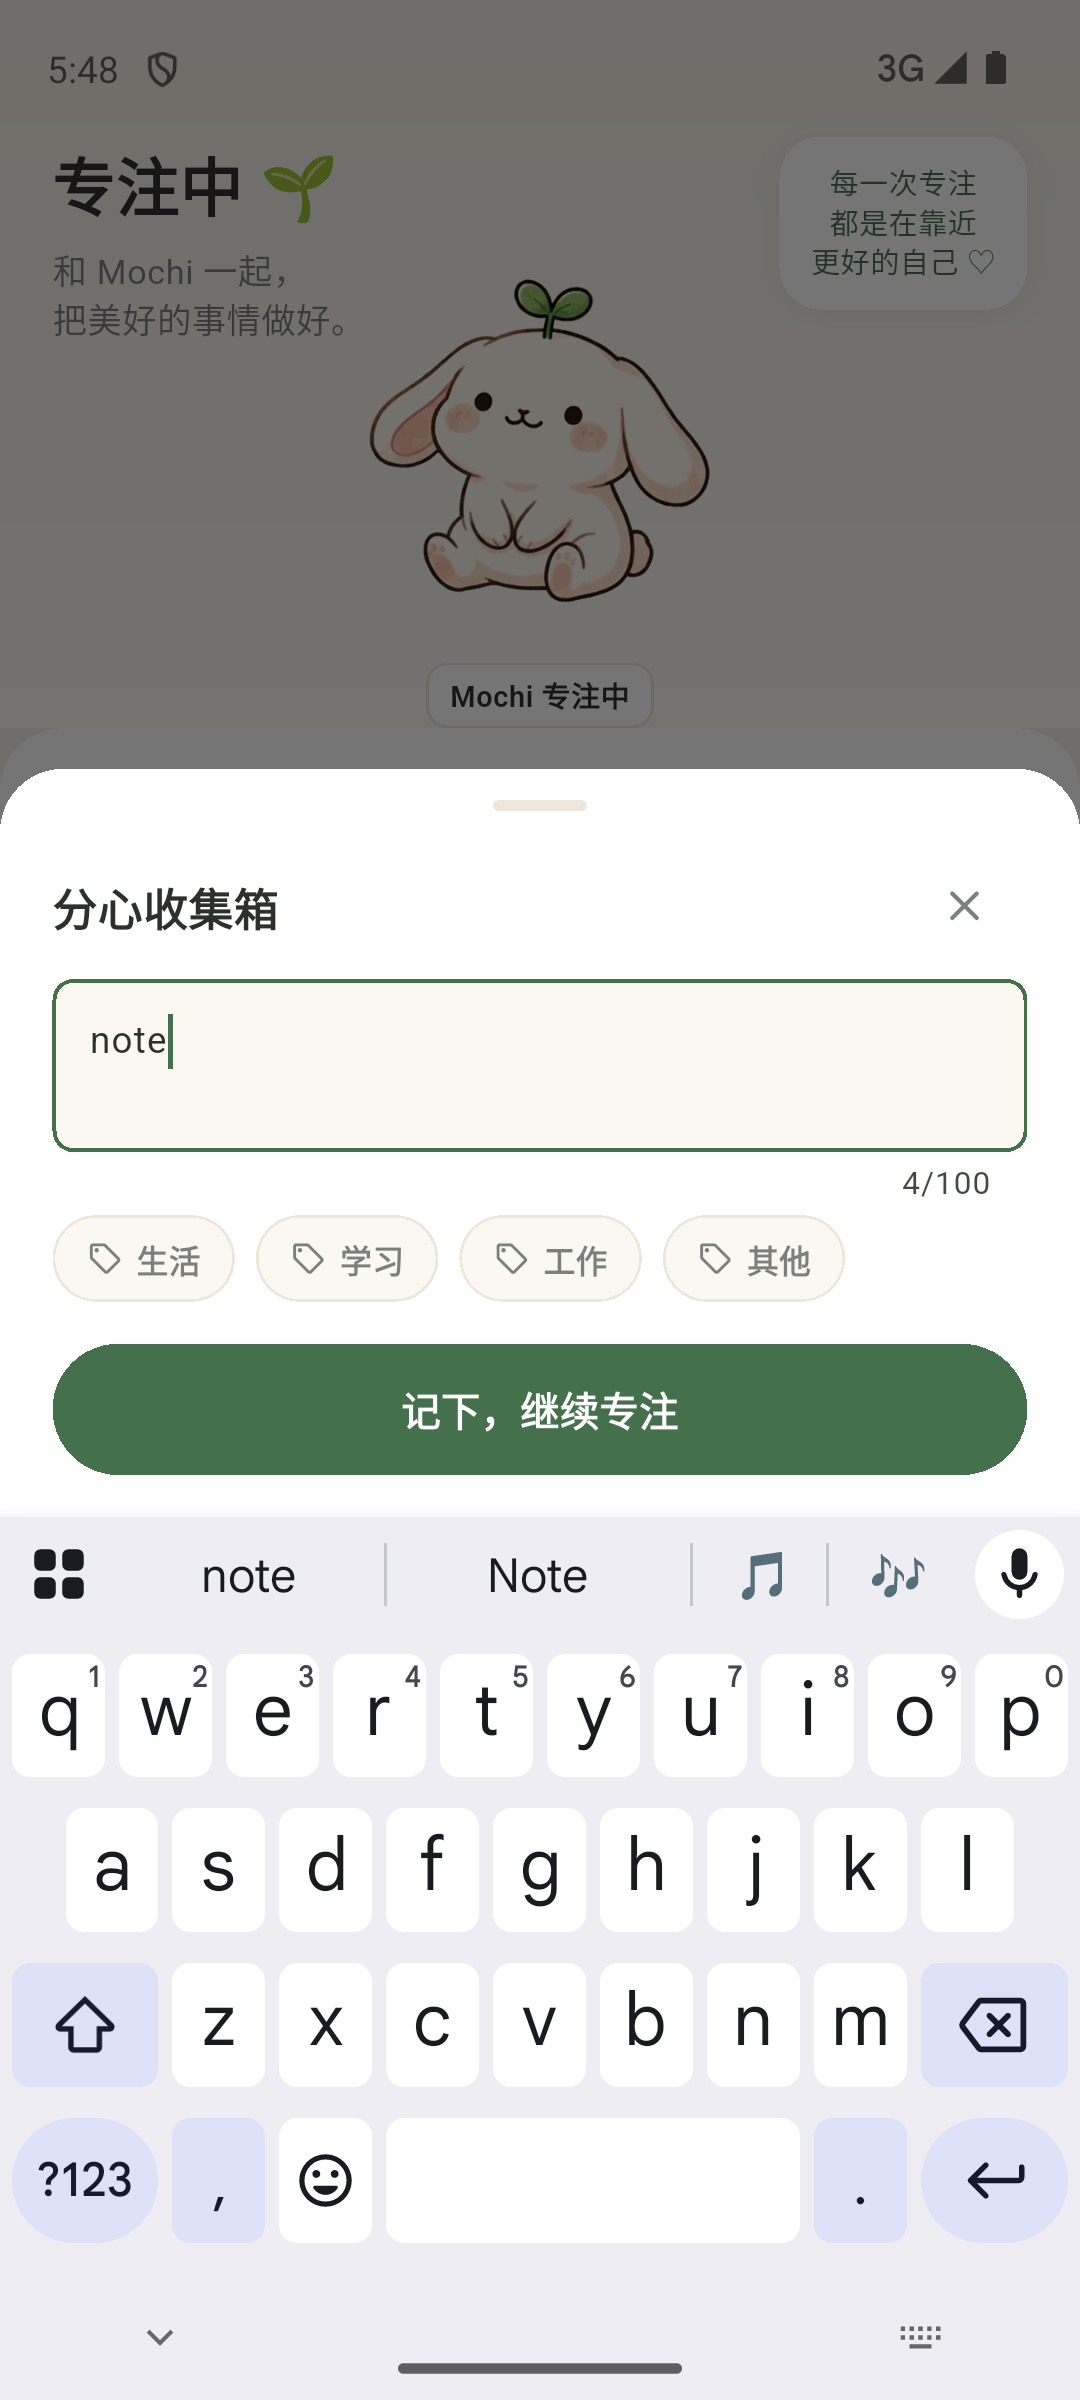
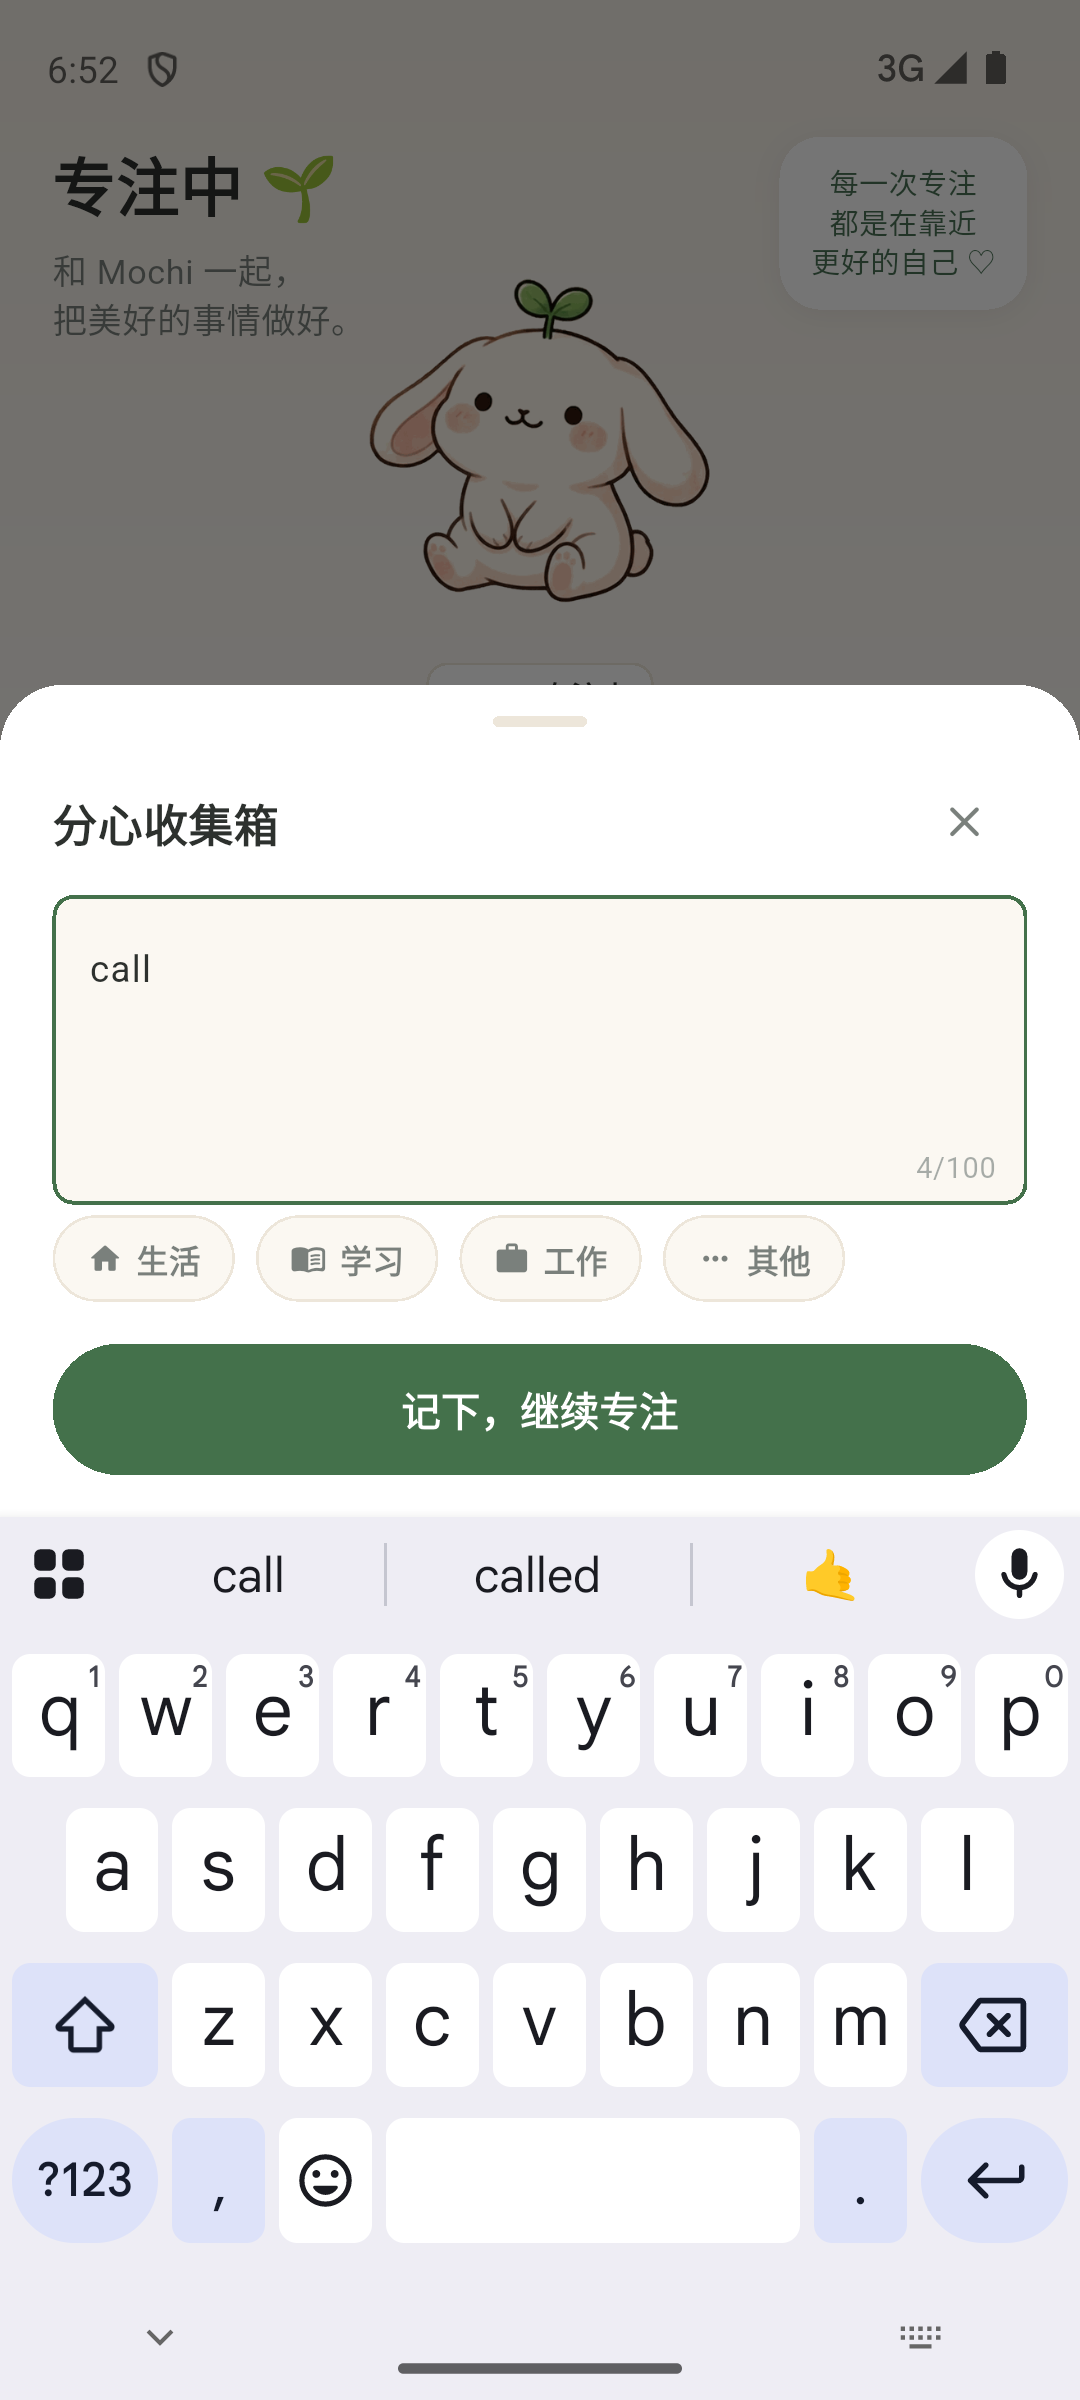
docs(qa): design 05 closed out, and designs 07 and 09 audited
The matrix now records 05's four fixed differences with their device evidence, and adds structural rows for 07 (statistics) and 09 (timeline). Both of those pass on structure, so the rows say so and say plainly that pixel detail is not yet compared.

09 carries one open question rather than a fix: the design's day includes 08:00 起床, 12:00 午休 and 18:00 自由时间, and its legend names five kinds where TimelineKind models four. Nothing in the repo represents a meal or a life event, so this is a data-source gap rather than a styling one, and there are two readings of it. It is marked NOT_VERIFIED and registered as S1.09a rather than guessed at.

diff --git a/cozy_focus_app/outputs/final_product_qa/01_VISUAL_MATRIX.md b/cozy_focus_app/outputs/final_product_qa/01_VISUAL_MATRIX.md
@@ -14,7 +14,7 @@
 | 04 | 专注模式 | `/focus` | 是 | FocusSessionController | 见下方 04 行 |
 | 05 | 分心收集箱 | 专注中 → `记一下`（底部浮层） | 是 | DistractionInboxController + Drift | 见下方 05 行 |
 | 06 | 专注回顾 | 会话结束后自动进入 | 是 | FocusReviewController + RewardLedger | 见下方 06 行 |
-| 07–16 | 报告 / 空闲 / 时间线 / 房间 / 建任务 / 任务详情 / 分心箱 / 排期 / 设置 / 空态 | — | — | — | **待审计** |
+| 07–16 | 报告 / 空闲 / 时间线 / 房间 / 建任务 / 任务详情 / 分心箱 / 排期 / 设置 / 空态 | — | — | — | 07、09 已核对（见下），其余**待审计** |
 
 ## 全局：主色绿与设计图不符（影响全部 16 页）
 
@@ -92,10 +92,10 @@
 | 浮层顶部拖拽条 | 一致 | PASS |
 | 标题 `分心收集箱` + 右侧 × | 一致 | PASS |
 | 输入框 + 占位 `想到什么，先记下来…` + 字数上限 100 | 一致（占位文案与 100 上限均一致） | PASS |
-| **`0/100` 计数位于输入框内右下角** | 计数在**框外**、边框下方右对齐 | **差异**：位置不同 |
-| **输入框高度约 4 行**（框高/框宽 ≈ 0.34） | 约 2 行（≈ 0.17） | **差异**：实机框高约为设计的一半 |
-| **四个标签各有自己的图标**：生活=房子 / 学习=摊开的书 / 工作=公文包 / 其他=··· | 四个都用同一个标签图标（`sell_outlined`） | **缺陷**：`TaskCategory.iconName` 已声明（home/book/briefcase/more）却**从未被渲染**，是死数据 |
-| **选中标签为品牌绿**（浅绿底 + 绿边 + 绿字绿图标） | 选中态用**分类色**（生活 = `catLife` 橙 `#F0B367`） | **差异**：设计 02 的展示型 chip 用分类色，但设计 05 的**选中态**是绿 |
+| **`0/100` 计数位于输入框内右下角** | **已修**：计数画在框内右下角（Flutter 自带计数恒在框外下方，故关闭自带计数、自行绘制）；设备复验 | PASS |
+| **输入框高度约 4 行**（框高/框宽 ≈ 0.34） | **已修**：`minLines: 4`；411dp 下实测比值 0.32 | PASS |
+| **四个标签各有自己的图标**：生活=房子 / 学习=摊开的书 / 工作=公文包 / 其他=··· | **已修**：新增 `taskCategoryIcon()`，按 `TaskCategory.iconName` 映射；设备复验四个图标各不相同 | PASS |
+| **选中标签为品牌绿**（浅绿底 + 绿边 + 绿字绿图标） | **已修**：选中态改为品牌绿（`primaryLight` 底 + `primarySage` 边 + `primaryDark` 字/图标）；设备复验 生活 选中后是绿色而非橙色 | PASS |
 | 未选中标签：浅灰底 + 灰边 + 灰字 | 一致（`background` 底 + `border` 边 + `textSecondary`） | PASS |
 | 主按钮 `记下，继续专注`：深绿实心 + 白字 + 胶囊 | 一致（颜色已在本次改为设计图的深绿；空输入时为禁用态） | PASS |
 | 空输入时按钮禁用 | 一致（设计图未画禁用态，实机灰底灰字） | PASS |
@@ -118,3 +118,32 @@
 | 宠物 | 一致（宠物位于顶部） | PASS |
 
 **说明**：06 的逐项对照是在进入 05 的过程中顺带完成的（会话恰好在该次点击时结算），细节级差异（间距、字号）尚未逐像素比对，因此本行结论为**结构性 PASS**，不宣称像素级通过。
+
+## 07 统计分析 — 对照结果
+
+对照方式：设计 07 展板 vs `StatisticsView` 源码结构（本行**尚未实机逐像素比对**，故只给结构性结论）。
+
+| 设计要素 | 实现 | 结论 |
+|---|---|---|
+| 分段 `日 / 周 / 月`，选中项为实心绿药丸 + 白字 | `_KindSelector` + `AnalyticsRangeKind(day/week/month)`，选中项 `primarySage` 底 + 白字 | PASS |
+| 日期范围导航 `‹ 10月2日 - 10月8日 ›` | `_RangeHeader`（含步进与回到今天） | PASS |
+| 三张指标卡：专注总时长 / 专注次数 / 平均时长 | 三个 `_StatTile`，标签一致 | PASS |
+| 每日专注时长柱状图（轴 0/2/4 小时，周一…周日） | `_DailyChart` | PASS（柱色与轴刻度未逐像素比对） |
+| 任务专注时长分布 + `查看更多 ›`，行 = 色点 + 任务名 + 时长 + 百分比 + `›` | `_SectionLabel('任务专注时长分布')` 与分布行存在 | PASS（百分比列未逐像素比对） |
+| 设计图的示例数字（8 小时 35 分钟 / 12 次 / 42 分钟） | **未写进代码**，由数据算出 | PASS（`today_statistics_test.dart` 有一条专门断言这些示例数字不出现） |
+
+## 09 时间线 — 对照结果
+
+对照方式：设计 09 展板 vs `TimelineKind` / `today_plan_page.dart` 源码结构（**尚未实机逐像素比对**）。
+
+| 设计要素 | 实现 | 结论 |
+|---|---|---|
+| 分段 `计划 / 时间线 / 统计` | 一致 | PASS |
+| 标题 `今天` + `10月8日·周三` + 右上日历图标 | 一致（今日计划页已有） | PASS |
+| 左侧时间列 + 竖直轨道 + 彩色圆点 | 有轨道与按类型着色 | PASS |
+| 行：图标方块 + 标题 + 副标题（时长/备注），部分带 `›` | 一致 | PASS |
+| **当前进行中的任务高亮卡片**（`专注中: 专题阅读` / `50 分钟 · 剩余 25 分钟` / 右侧方形停止键） | 有高亮行与停止控件（`today_timeline_test.dart` 的 "a running session is the highlighted row with a stop control"） | PASS |
+| **图例五种**：任务 / 专注 / 休息 / **用餐·生活** / 快速记录 | `TimelineKind` 只有四种：任务 / 专注 / 休息 / 快速记录 | **差异（缺一种）**：仓库里没有任何"用餐/生活"概念（全库搜 `用餐` 无结果）。这是**数据源/词表**层面的缺口，不是配色问题——补它需要先有生活事件的来源，属产品决策，记入待定 |
+| 图例只列当天出现的类型 | 实现刻意如此（源码注释写明"没有休息的一天列休息就是给空键"） | 差异但**更合理**，保留 |
+
+**待定项**：设计 09 的日视图里 08:00 起床 / 12:00 午休 / 18:00 自由时间 这类**非任务日程**在仓库里没有数据来源。另一种读法是"分类为『生活』的计划行按用餐/生活色绘制"——两种读法都需要先定产品意图，因此标 `NOT_VERIFIED` 而不是直接改。

diff --git a/cozy_focus_app/outputs/final_product_qa/04_BUG_FIX_LEDGER.md b/cozy_focus_app/outputs/final_product_qa/04_BUG_FIX_LEDGER.md
@@ -69,6 +69,19 @@
 - **设备复验**：首页 34 个命名节点无重复；成长页 27 个、房间页 22 个无重复；底部导航读出 `成长&#10;Tab 3 of 3`；房间子导航读出 `房间`（此前是 `房间&#10;房间`）。
 - **一处元教训**：本项目早先为了修"无名按钮"给 icon **加**过 `semanticLabel`；这次要**减**掉多余的。同一个属性，方向相反——所以判断依据不能是"有没有加过"，只能是"这棵树读出来是什么"。
 
+### 8. 分心收集箱与设计 05 的四处差异
+
+- **发现方式**：把设计 05 展板的屏幕区裁出来（`_crops/05_DISTRACTION_CAPTURE_...jpg`），与实机浮层逐项比对；颜色用 `tools/qa/sample_colors.py` 取值而不是眼看。
+- **四处**：
+  1. **四个标签用同一个图标**。设计给每类一个记号（房子 / 摊开的书 / 公文包 / ···），实机四个都画 `sell_outlined`。根因是 `TaskCategory.iconName`（`home`/`book`/`briefcase`/`more`）**声明了却从未被渲染**——死数据。修复：新增 `taskCategoryIcon()` 按 `iconName` 映射（域模型不引入 `IconData`，映射留在表现层），并让 sheet 使用它。
+  2. **选中态用分类色**。设计 05 里 `生活` 选中是**品牌绿**，实机是 `catLife` 橙 `#F0B367`。这不是配色错误而是语义混淆：任务行上的 chip 用分类色（设计 02 如此），而**供选择的** chip 用"是否被选中"着色，类别由图标承担。改为品牌绿。
+  3. **计数在框外**。设计把 `0/100` 画在输入框**内**右下角；Flutter 自带的 counter 恒在框外下方，所以关掉自带计数、用 `Stack` 自行绘制。
+  4. **输入框只有两行高**。设计约四行（框高/框宽 ≈ 0.34），实机 ≈ 0.17。改为 `minLines: 4`。
+- **测试**：`test/presentation/capture_sheet_matches_design_test.dart` 6 条（四个图标互不相同、图标与模型声明一致、选中色是品牌绿且**不是**分类色、计数落在输入框矩形内、框高/框宽 > 0.25、计数仍会递增）。
+- **反向证明**：把四处逐一改回 → 4 条红：图标集合从 4 个变 1 个；图标值不符；选中色回到橙（`Actual: Color(alpha: 0.1400, red: 0.9412, green: 0.7020, blue: 0.4039)` = `#F0B367`）；计数落在框外（`Expected: true / Actual: false`）。
+- **设备复验**：411×914 下四个图标各不相同；计数 `4/100` 在框内右下角；框明显变高；点 `生活` 后是**绿色**选中态而非橙色。截图见 `02_BEFORE_AFTER/after/after_capture_sheet*.png`。
+- **顺带修掉的测试夹具错误**：这条测试一开始把画布设成 `physicalSize 1080×2400 + dpr 1.0`，那是 1080pt 宽的视口而不是设计稿的 411dp 手机，量出的比值只有 0.197 并误判为失败。改为 `dpr = 1080/411` 后为 0.32。
+
 ## 本轮定位但**尚未修复**
 
 | 缺陷 | 证据 | 影响 |
